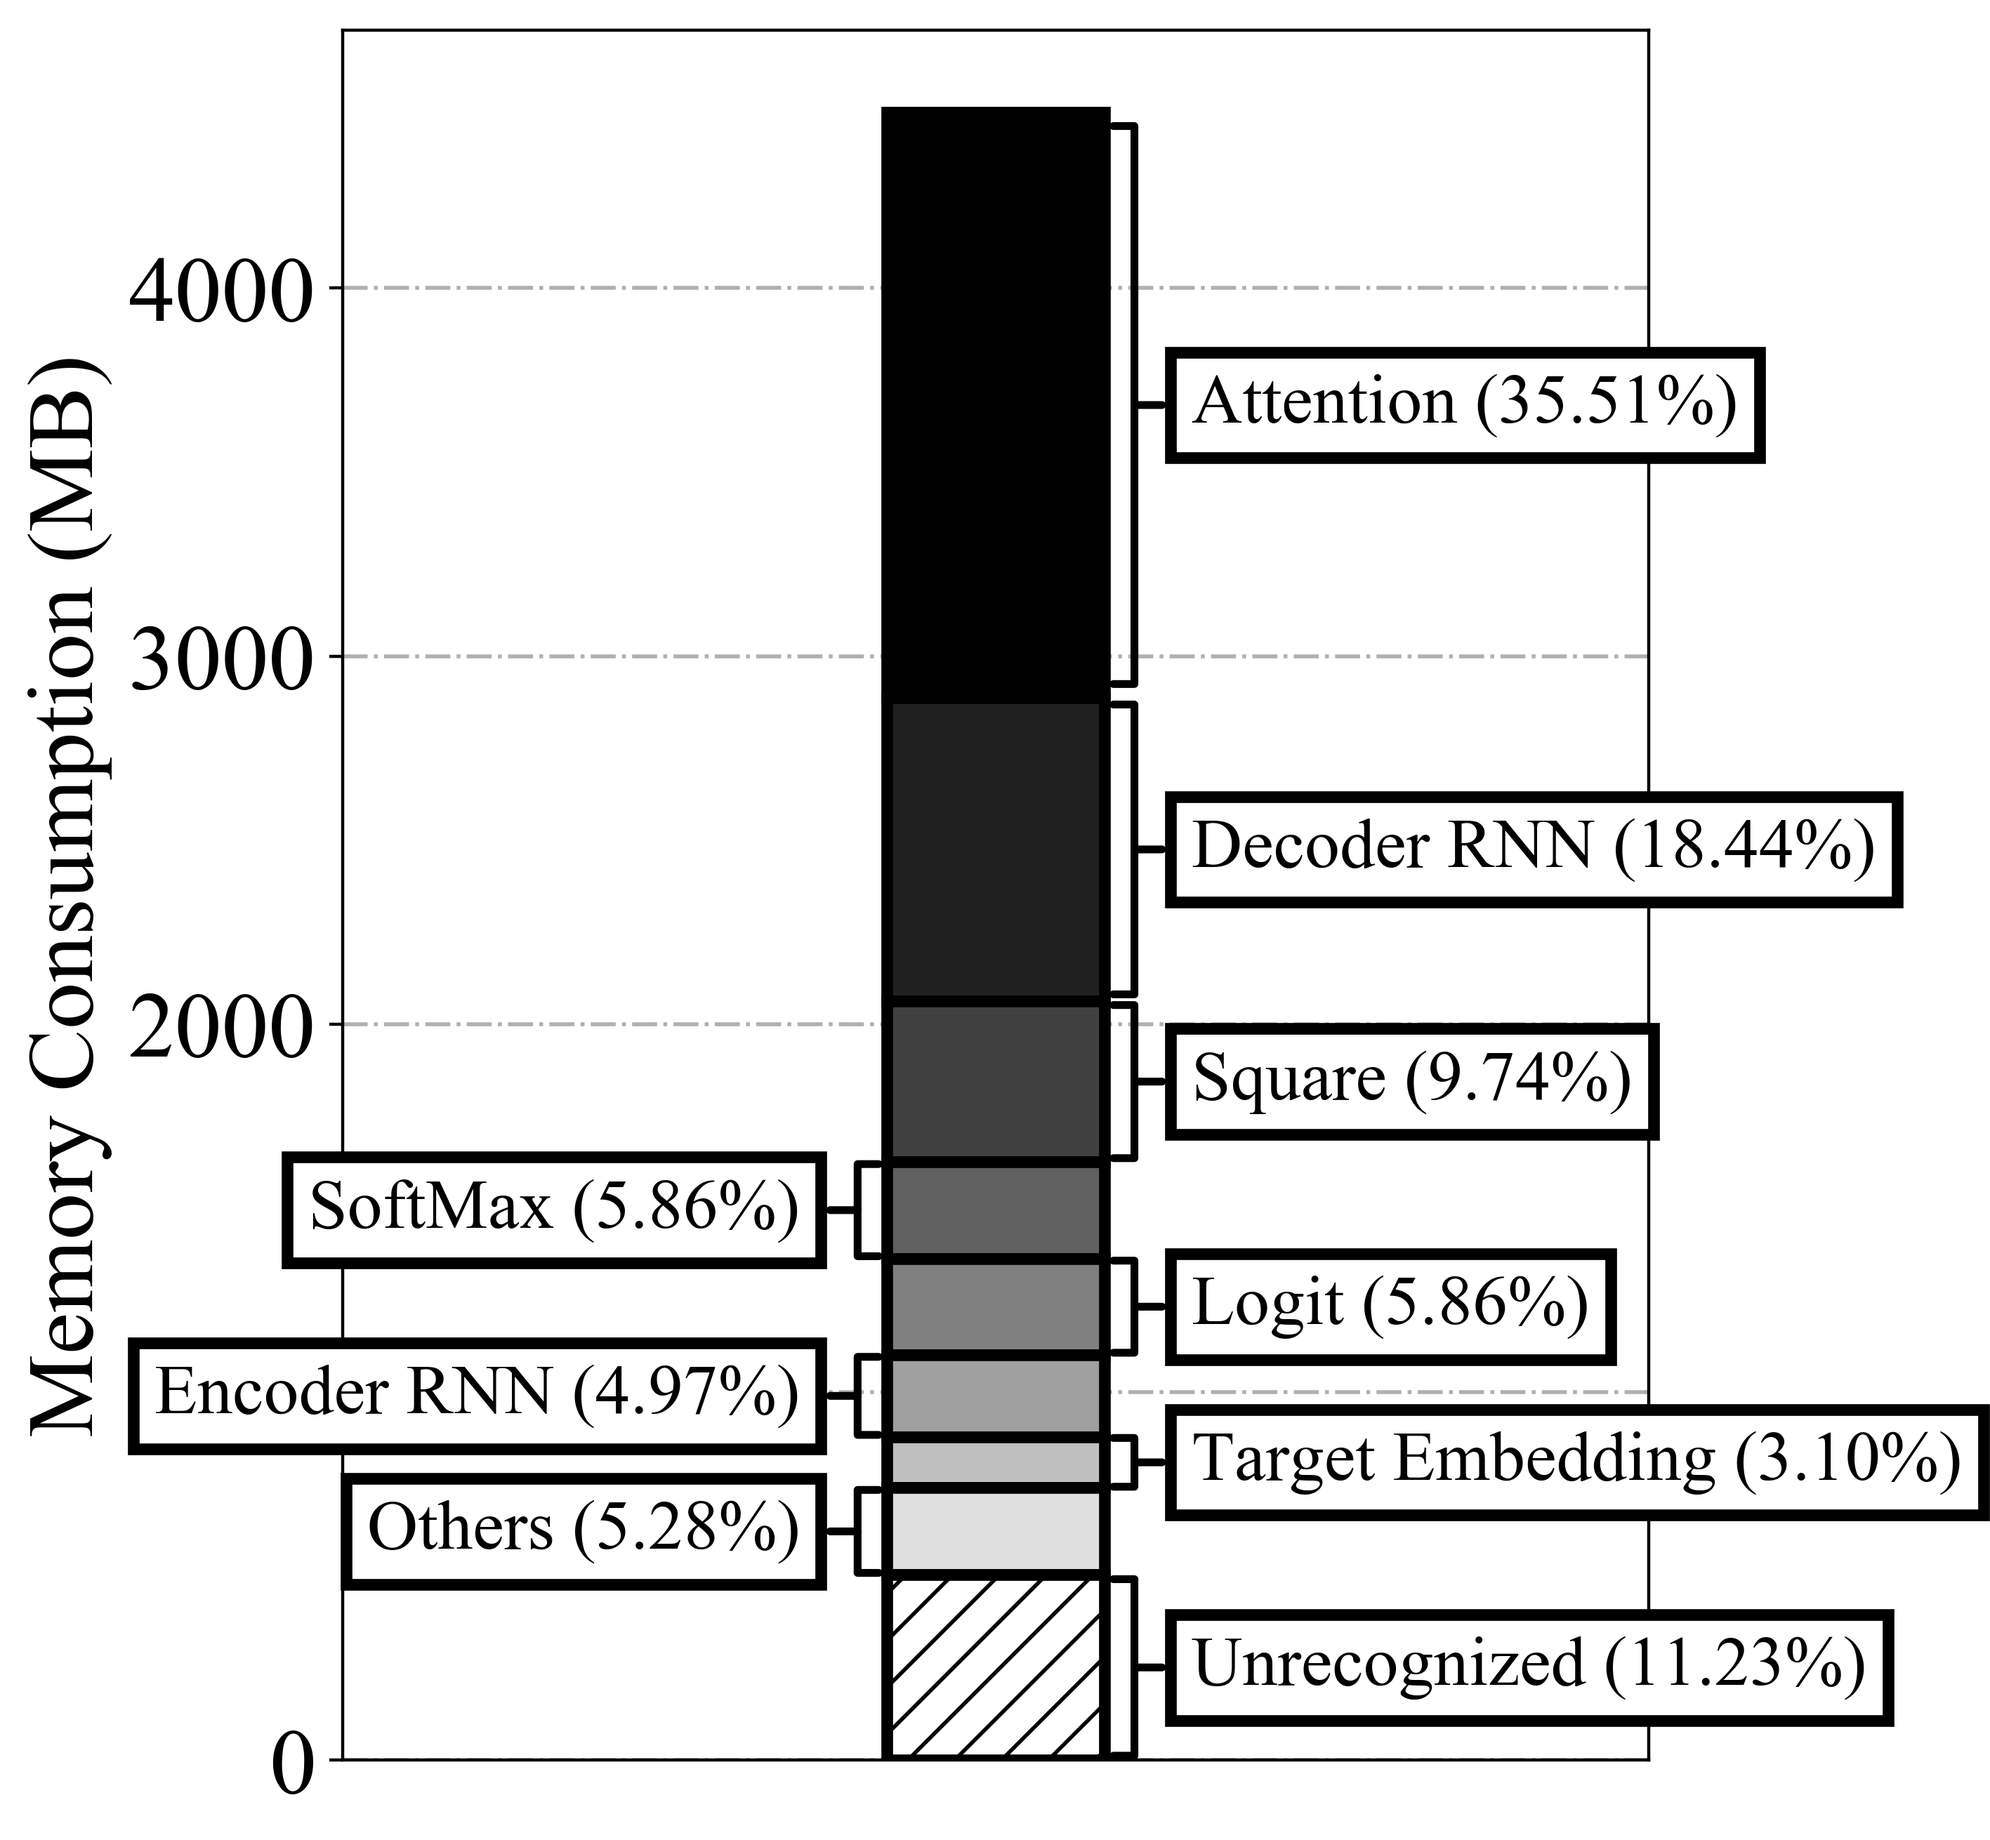
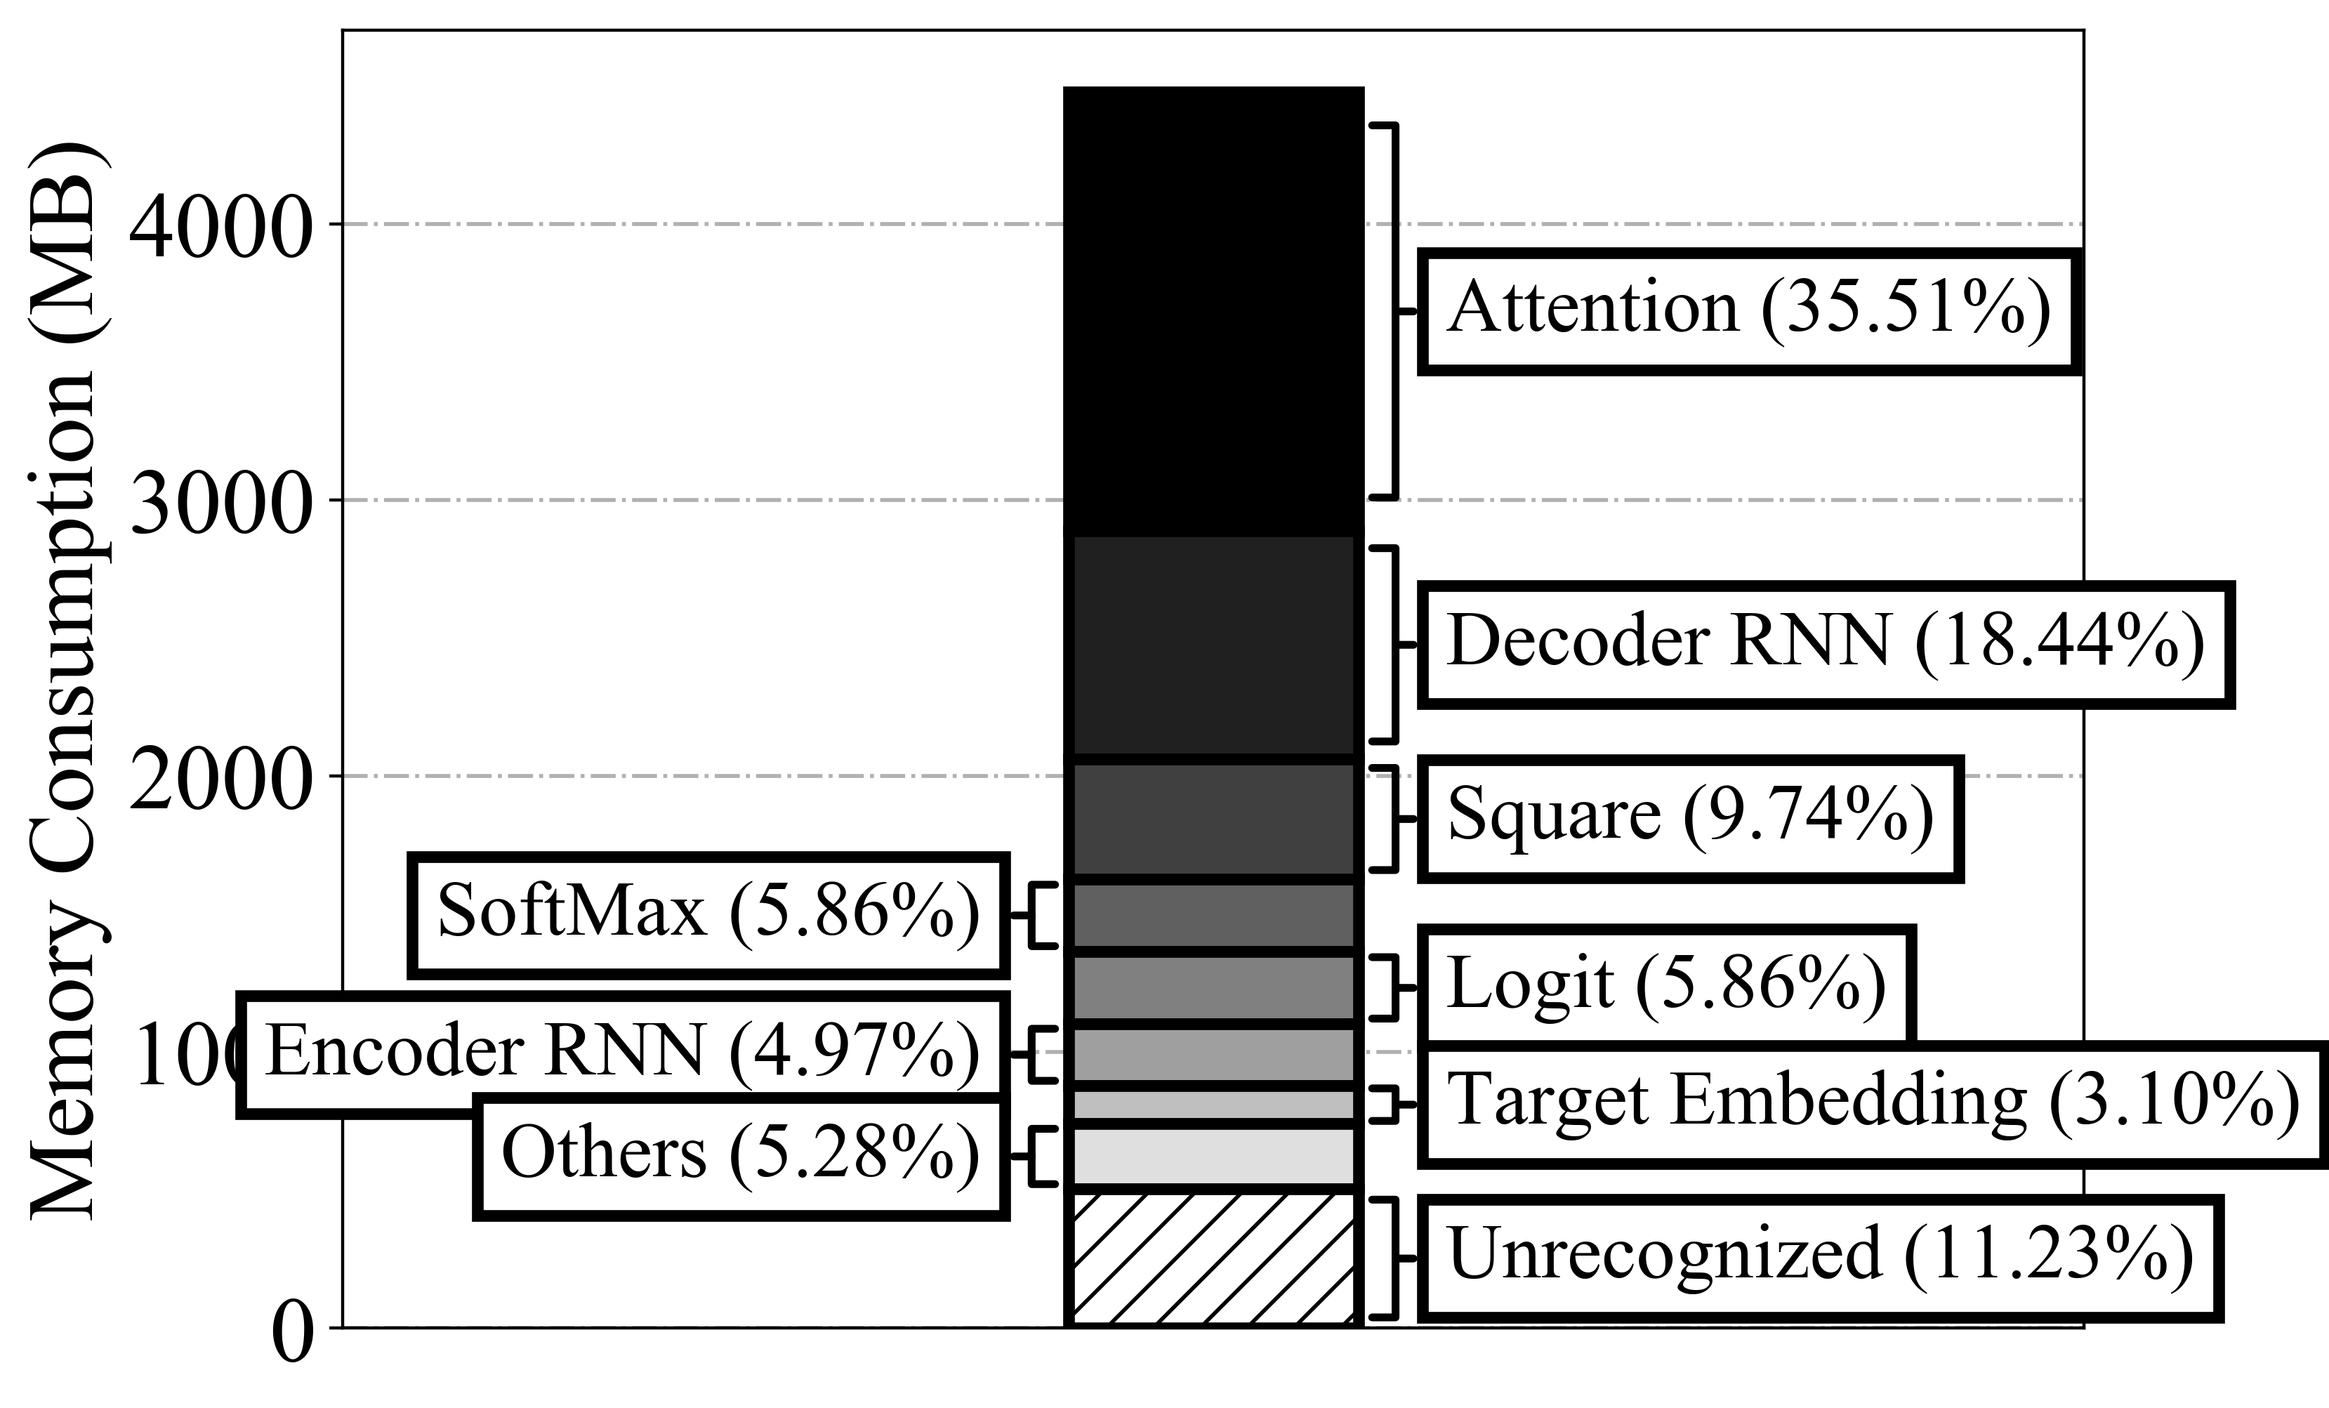
Changed the image size from (6,8) to (8,6).

diff --git a/workspace/results/plotter.py b/workspace/results/plotter.py
@@ -58,7 +58,7 @@ def plt_memory_breakdown(sorted_stats_list,
                          bar_width=0.3,
                          annotation_top_k=3,
                          annotation_fontsize=24,
-                         annotation_length_ratio=0.0025):
+                         annotation_length_ratio=0.0015):
     """
     Plot the breakdown of memory consumption.
     
@@ -74,7 +74,7 @@ def plt_memory_breakdown(sorted_stats_list,
     
     :return None
     """
-    plt.figure(figsize=(6, 8))
+    plt.figure(figsize=(8, 6))
 
     sorted_stats_klist = [regex_dict[kv[0]]        for kv in sorted_stats_list[:top_k]]
     sorted_stats_vlist = [kv[1][0] / (1024 * 1024) for kv in sorted_stats_list[:top_k]]
@@ -99,8 +99,8 @@ def plt_memory_breakdown(sorted_stats_list,
         annotations.append(
             plt.annotate((sorted_stats_klist[i] + ' (%.2f%%)') % (sorted_stats_vlist[i] * 100.0 / expected_sum),
                          xy    =(0.6*bar_width * (1 if switch_side_flag is True else -1), middle_pos), 
-                         xytext=(0.9*bar_width * (1 if switch_side_flag is True else -1), middle_pos), 
-                         fontsize=18,
+                         xytext=(0.8*bar_width * (1 if switch_side_flag is True else -1), middle_pos), 
+                         fontsize=20,
                          ha='left' if switch_side_flag is True else 'right', 
                          va='center', 
                          bbox=dict(boxstyle='square', facecolor='white', linewidth=3),
